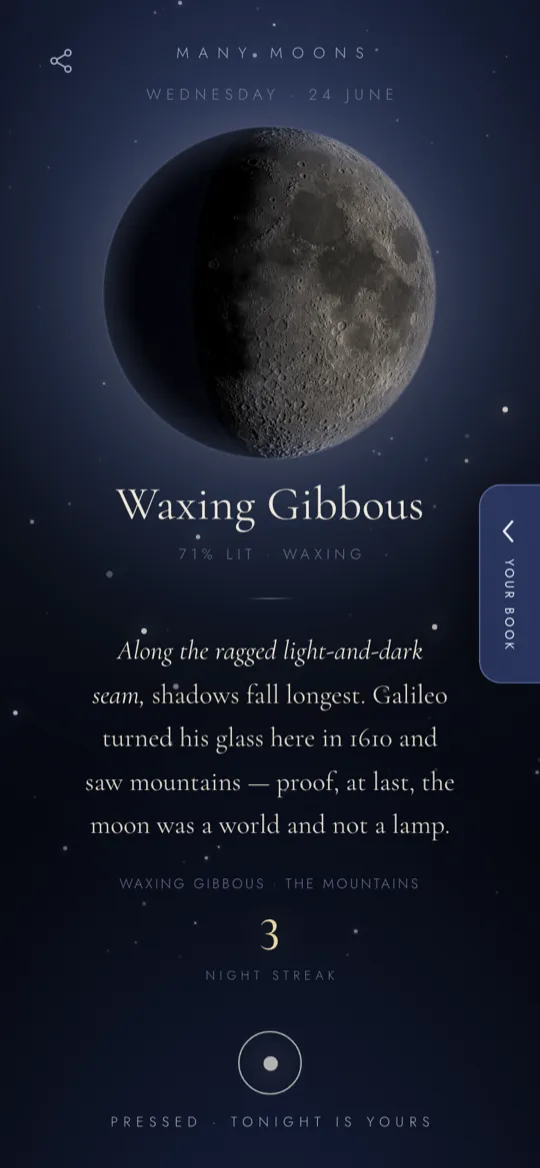
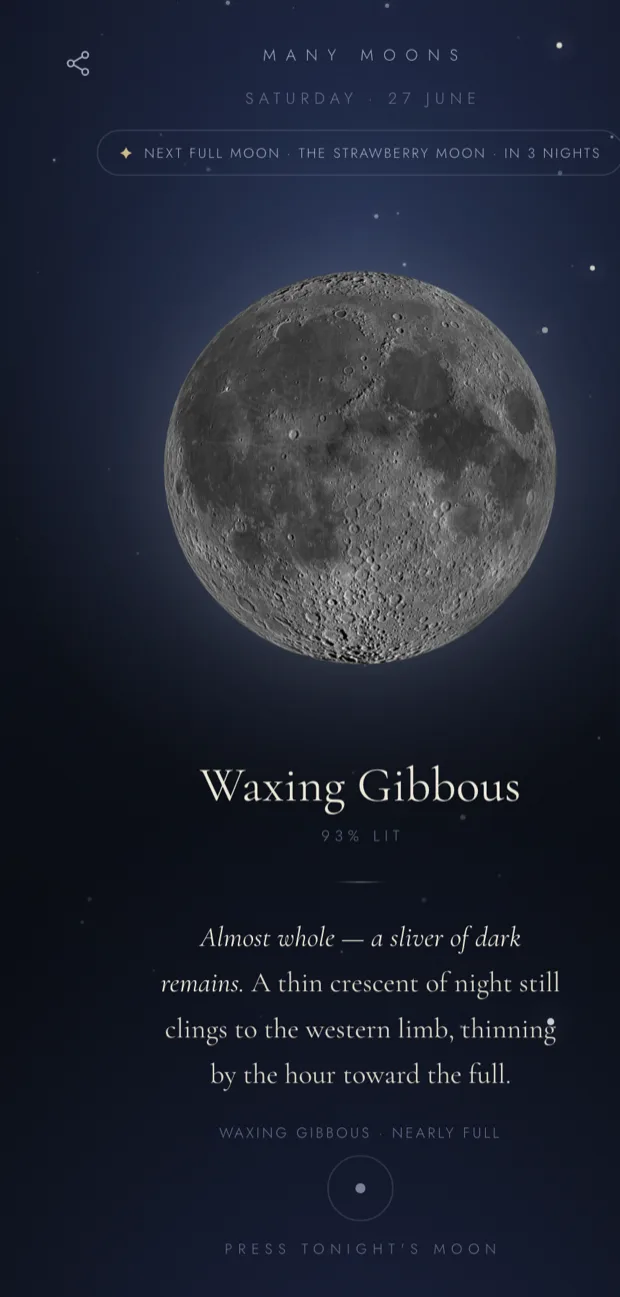
Refresh README: visual hero, badges, and updated screenshots
Restyle the README in the visual/badge-driven style: emoji hero title,
a bold tagline, a shields.io badge row (Capacitor, vanilla JS, NASA LRO,
PWA/offline, phases/named-moons, no-tracking), emoji section headers,
and a note on swipe nav + the wheel tick. Regenerate the Tonight shot
(now shows the deduped readout) and add a fresh screenshot of the new
glass date wheels, replacing the old native-picker birth shot.

diff --git a/README.md b/README.md
@@ -1,15 +1,27 @@
-<h1 align="center">Many Moons</h1>
+<p align="center">
+  <img src="icons/icon-192.png" width="96" alt="Many Moons app icon" />
+</p>
+
+<h1 align="center">🌙 Many Moons</h1>
+
+<h3 align="center">The real moon overhead tonight — its phase, its lore,<br/>and a collection to keep.</h3>
 
 <p align="center">
-  <img src="icons/icon-192.png" width="92" alt="Many Moons app icon" />
+  <img src="https://img.shields.io/badge/Capacitor-8.4-119EFF?logo=capacitor&logoColor=white" alt="Capacitor 8.4" />
+  <img src="https://img.shields.io/badge/Vanilla_JS-single_file-F7DF1E?logo=javascript&logoColor=black" alt="Vanilla JS, single file" />
+  <img src="https://img.shields.io/badge/surface-NASA_LRO-0B3D91" alt="Surface: NASA LRO imagery" />
+  <img src="https://img.shields.io/badge/PWA-offline-5A0FC8?logo=pwa&logoColor=white" alt="Offline PWA" />
+  <img src="https://img.shields.io/badge/phases-8-6b7290" alt="8 phases" />
+  <img src="https://img.shields.io/badge/named_moons-12-cda93b" alt="12 named full moons" />
+  <img src="https://img.shields.io/badge/tracking-none-2ea44f" alt="No tracking" />
 </p>
 
 <p align="center">
-  <em>A quiet companion for the moon overhead — tonight's phase, the real lunar surface,<br/>and the stories the world has told about it.</em>
+  <b>A quiet companion for the moon overhead.</b> Open it any night and see the moon exactly as it hangs in the sky right now — the real lunar surface, lit by tonight's true shadow — beneath a short piece of folklore chosen for the night. Press the moon to keep it; over a lunar cycle your <b>Book</b> fills and a collection takes shape. <b>No account · no location · no tracking — it works offline.</b>
 </p>
 
 <p align="center">
-  <img src="screenshots/tonight.webp" width="300" alt="Tonight — the current moon, its phase, a line of lore, and your streak" />
+  <img src="screenshots/tonight.webp" width="300" alt="Tonight — the current moon, its phase, illumination, a line of lore, and your streak" />
 </p>
 
 ---
@@ -18,7 +30,7 @@
   <tr>
     <td align="center" width="33%"><img src="screenshots/collection.webp" width="210" alt="The collection — the year's twelve full moons to catch" /><br/><sub><b>Collect the moons</b></sub></td>
     <td align="center" width="33%"><img src="screenshots/library.webp" width="210" alt="The eight phases, each with its illumination" /><br/><sub><b>The eight phases</b></sub></td>
-    <td align="center" width="33%"><img src="screenshots/birth.webp" width="210" alt="Look up the moon over any past night" /><br/><sub><b>Any night, any moon</b></sub></td>
+    <td align="center" width="33%"><img src="screenshots/wheels.webp" width="210" alt="Pick any night with the glass scroll wheels" /><br/><sub><b>Any night, any moon</b></sub></td>
   </tr>
   <tr>
     <td align="center"><img src="screenshots/blood-moon.webp" width="210" alt="Rare and special moons — blood, blue, super, black" /><br/><sub><b>Rare &amp; special moons</b></sub></td>
@@ -29,7 +41,7 @@
 
 ---
 
-## What it is
+## 🌙 What it is
 
 Many Moons opens to **Tonight** — the moon exactly as it hangs in the sky right now, the real lunar surface lit by the night's exact shadow, beneath one short piece of folklore chosen for the night.
 
@@ -37,28 +49,30 @@ Press the moon to keep it. Over a lunar cycle your **Book** fills with the moons
 
 No account. No location. No tracking. It simply opens to the sky.
 
-## The screens
+## 📱 The screens
 
 - **Tonight** — the real current phase, its illumination, a hand-written lore card that turns each night, and your **press streak**.
 - **The Book**
   - *Your Moons* — every moon you've pressed, newest first, each stamped with its date and how lit it was.
   - *The Collection* — the year laid out as a board: a *coming-up* list with countdowns, and the twelve full moons of the year as coins that light up as you catch them.
   - *The eight phases* and the year's named full moons (Wolf, Snow, Worm … Cold), each with its meaning.
-- **Any night, any moon** — pick any past date and see — and share — the moon that hung above it.
+- **Any night, any moon** — pick any past date on the glass **scroll wheels** and see — and share — the moon that hung above it.
 - **Settings** — system-aware **dark / dusk** themes, an opt-in nightly reminder, and a one-tap backup of your collection.
 
-## Made to be shared
+> **Navigation** — swipe left/right to move between **Tonight → Your Moons → Library**, and the date wheels click softly under your thumb (toggle in Settings).
+
+## ✨ Made to be shared
 
 Press *share* on any moon and Many Moons paints a card — the moon, its phase and date, a line of lore, and the app's mark — ready for Stories, TikTok, or a message to someone who'd look up.
 
-## The moon, honestly rendered
+## 🌑 The moon, honestly rendered
 
 - **Phase** is computed from the synodic month (29.530589 days) measured from a known new moon — global, exact to the day, and entirely offline.
 - **The surface** is a real, public-domain NASA Lunar Reconnaissance Orbiter image of the near side.
 - **The shadow** is the app's own: the true terminator for the night's exact phase, with raking light that deepens the craters near the shadow line, a warm sub-solar glow cooling to the terminator, and **earthshine** faintly lighting the dark limb — the way the real moon's unlit face glows by light reflected from Earth.
 - **Blood moons** get their own coppery render; the twelve named moons and the supermoon, blue moon and black moon are recognised too.
 
-## Run it
+## ▶️ Run it
 
 It's a web app with no build step.
 
@@ -71,11 +85,11 @@ python3 -m http.server 8000
 
 Or just open `index.html` in a browser. It installs as an offline **PWA**, and ships to Android via **Capacitor** — see [`CAPACITOR.md`](CAPACITOR.md).
 
-## On the lore, and its sources
+## 📖 On the lore, and its sources
 
 The folklore is hand-written and drawn from many traditions — Greek, Norse, Japanese, Chinese, Māori, and the North American almanac among them — paired in each card with a true fact about the sky. Care has been taken to credit each strand: the twelve month-names are a North American almanac gloss (several of Algonquin origin); the first-crescent *hilāl* of the Hijri calendar and the Māori *maramataka* are living calendars, still kept by looking up. Corrections from anyone closer to these traditions are warmly welcome.
 
-## Built with
+## 🛠️ Built with
 
 Vanilla HTML, CSS, and JavaScript in a single file · HTML `<canvas>` for the moon · NASA LRO imagery (public domain) · `localStorage` for your Book · Capacitor for Android · Cormorant Garamond and Jost for type. Mobile-first; happiest in portrait.
 